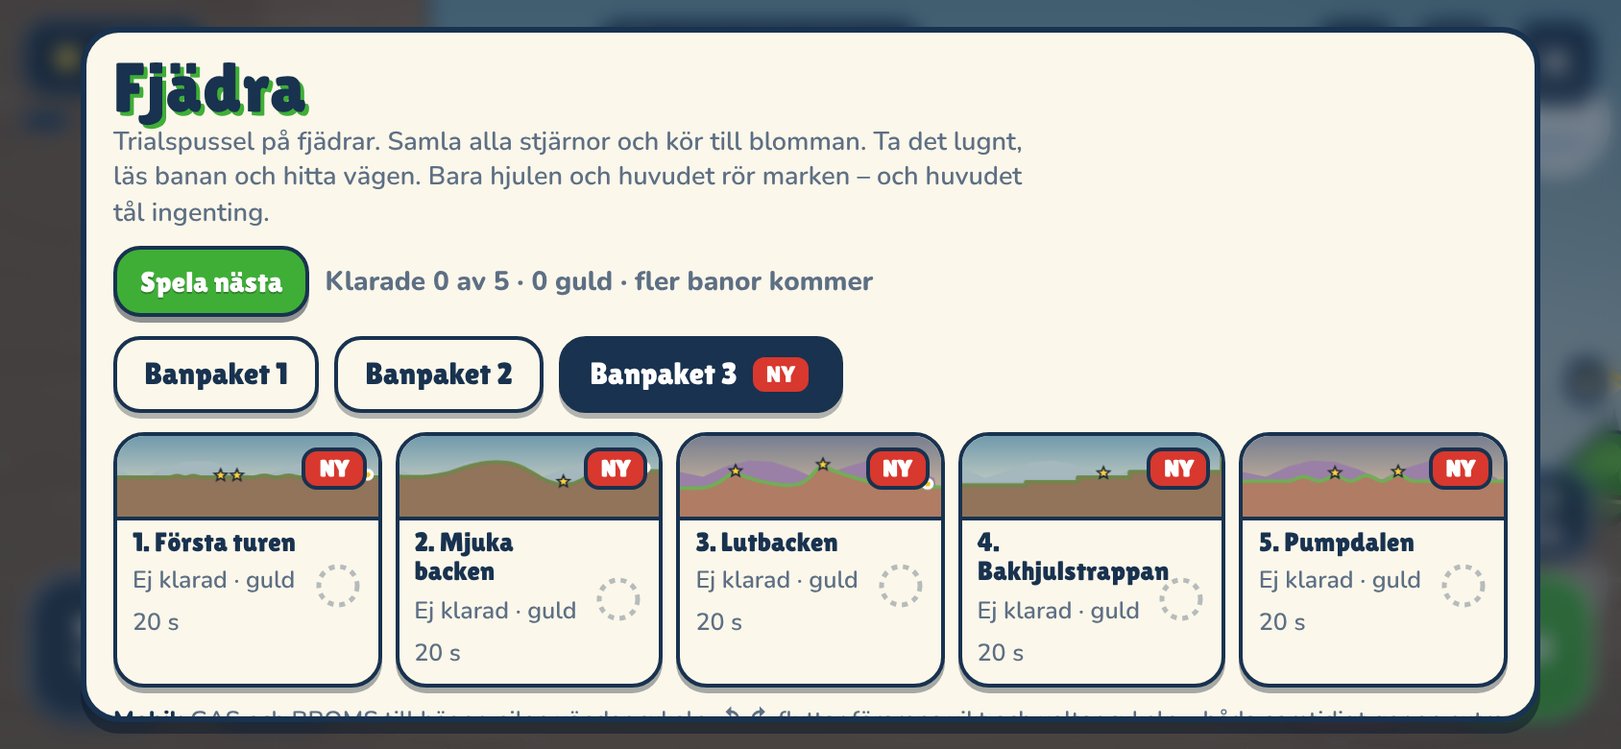
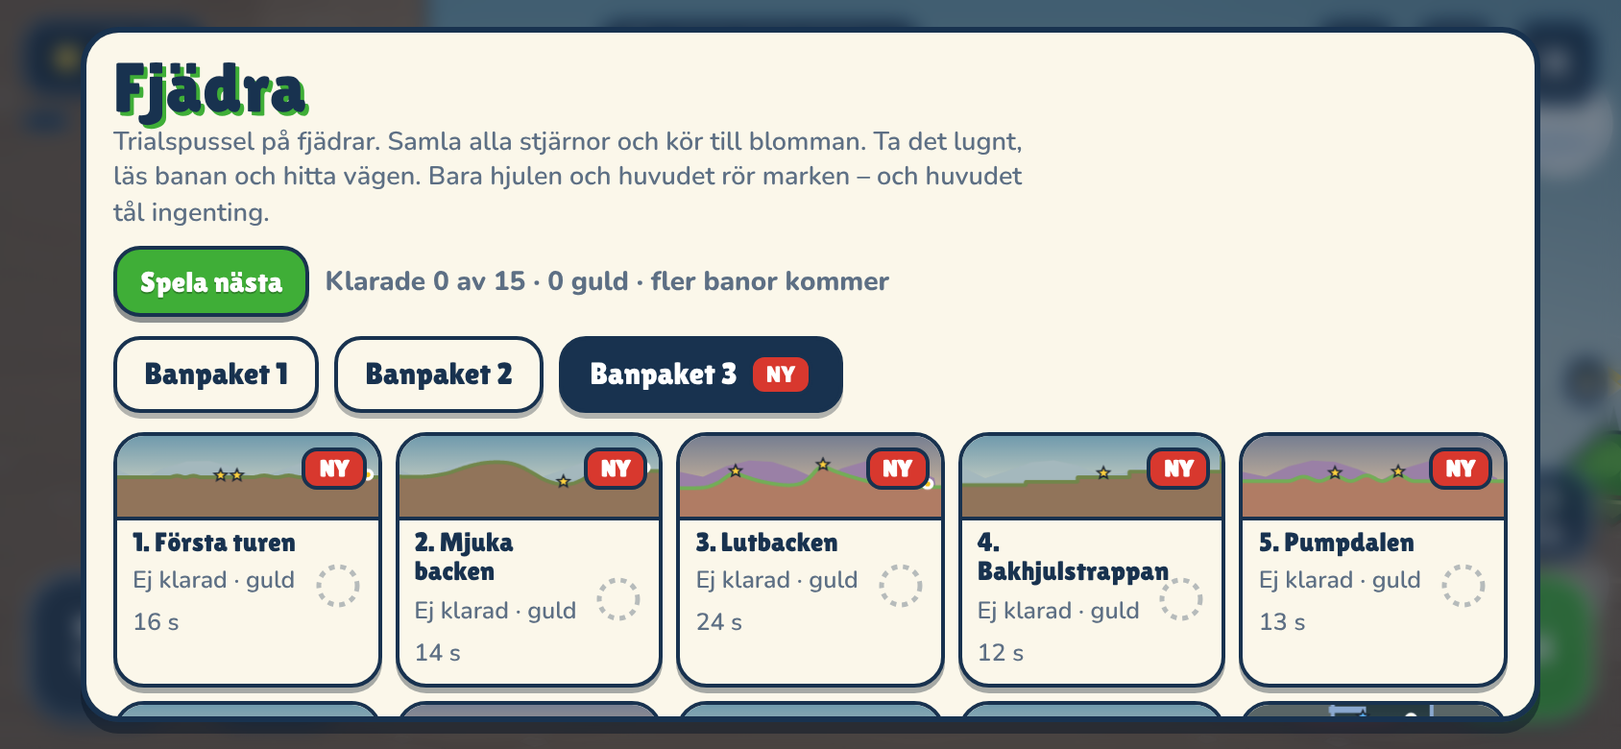
Banpaket 3: levels 6-15 (gap, halfpipe, loop, tunnel, chimney, turn, gaps, flow, ceiling, brake swing)
Adds a reusable bottom-open loop (loopParts/woodArc). Skorstenen uses
gravity stars since a turn-and-climb chimney is not possible in 2D with
the current hop/wheelie height. All 15 pack 3 levels are won by the test bot.

Claude-Session: https://claude.ai/code/session_01L7FhStvEFD35txFR7ov2Pk

diff --git a/game/index.html b/game/index.html
@@ -622,6 +622,7 @@ LV2.push(()=>({id:'fjadra-pack2-08', name:'Gruvans andra våning', theme:'cave',
 LV2.push(()=>({id:'fjadra-pack2-11', name:'Stenhyllan', theme:'sunset', hint:'Kör sakta mot kanten. BROMSA så fort framhjulet är ute över kanten (den gula zonen) och håll inne – bakhjulet hakar i kanten och du hänger. Ta stjärnan, släpp sen.',
   rings:[{pts:[[-14,TOP],[-14,4.5],[9.3,4.5],[9.55,4.62],[9.95,4.64],[10.05,4.55],[10.05,4.08],[8.5,3.98],[6.5,3.9],[5.2,3.6],[5,3.1],[5,2.3],[8,1.6],[11,0.75],[14,0.1],[15,0],[22,0],[29,4.5],[38,4.5],[38,TOP]]}],
   apples:[[4,5.25],[8.2,2.85],[25.5,2.95]], killers:[], flower:[34,4.5], start:[-10,4.5], marks:[[7.6,9.6]]}));
+var P13={cx:66,cy:6.5,R:4.6,kx:63.5,kr:3.5,ka:60};
 // ================= BANPAKET 3 (30 banor, lätt → svår) =================
 const LV3=[];
 // 01 Första turen — gas: platt start, mjuka gupp, stjärnor på marken
@@ -657,7 +658,88 @@ LV3.push(()=>{ const H=[1.0,1.15,1.3,1.45], W=7, X0=8;
     stuck:'Luta ↺ när du kör uppför, ↻ när det lutar nedåt. Gas får du använda om du vill.',
     rings:[{pts:[[-4,TOP],[-4,0],...sample(f,0,58,0.25),[58,TOP]]}],
     apples:[[X0+W*1.5,H[1]+0.75],[X0+W*3.5,H[3]+0.75]], killers:[], flower:[52,0], start:[2,0]}; });
-const MEDALS3={'fjadra-p3-01':[16,26],'fjadra-p3-02':[14,24],'fjadra-p3-03':[24,38],'fjadra-p3-04':[12,20],'fjadra-p3-05':[13,22]};
+// träplankor längs en cirkelbåge (loopar, rör): små fyrkanter så att ritningen följer bågen. Huvudet går igenom trä.
+function woodArc(cx,cy,r,a0,a1,th,n){ const out=[]; for(let i=0;i<n;i++){ const u0=(a0+(a1-a0)*i/n)*Math.PI/180, u1=(a0+(a1-a0)*(i+1)/n)*Math.PI/180;
+  const P=(u,rr)=>[+(cx+rr*Math.cos(u)).toFixed(3),+(cy+rr*Math.sin(u)).toFixed(3)];
+  out.push({pts:[P(u0,r),P(u1,r),P(u1,r+th),P(u0,r+th)],style:'wood'}); } return out; }
+// 06 Lilla gapet — hopp: ramp, ett gap med en stjärna i luften, landningsbacke
+LV3.push(()=>{ const s=cr([[-4,0],[10,0],[13,0.1],[15.5,0.5],[17.5,1.2],[19,1.75],[19.6,1.85],[20.4,1.4],[21.3,0.1],[22.2,-0.8],[23,-1.0],[23.8,-0.8],[24.7,0.2],[25.5,1.3],[26.1,1.8],[27.2,1.9],[30,1.45],[34,0.7],[38,0.15],[42,0],[54,0]],0.25);
+  return {id:'fjadra-p3-06', name:'Lilla gapet', theme:'meadow', hint:'Gasa mot rampen och hoppa över gapet. Stjärnan hänger mitt i luften.',
+    stuck:'Hamnade du i gropen? Tryck OMSTART och ta mer fart.',
+    rings:[{pts:[[-4,TOP],...s,[54,TOP]]}], apples:[[22.9,3.5]], killers:[], flower:[48,0], start:[2,0]}; });
+// 07 Halfpipe-gungan — halfpipe: gunga fram och tillbaka och flyg upp över kanterna
+LV3.push(()=>{ const L=[[-4,TOP],[-4,0],[4.6,0],[4.95,-0.12],...arc(10,0,5,180,270,24).slice(1),[14,-5],...arc(14,0,5,270,343,18).slice(1),[19.0,-1.2],[19.3,-0.25],[19.6,0],[24,0],
+      ...cr([[24,0],[27,-0.4],[31,-2.0],[35,-3.2],[38,-3.5],[48,-3.5]],0.3).slice(1),[48,TOP]];
+  return {id:'fjadra-p3-07', name:'Halfpipe-gungan', theme:'sunset', hint:'Släpp dig ner i röret och gunga upp på båda sidor. Stjärnorna hänger ovanför kanterna.',
+    stuck:'Gunga: gasa nerför, släpp upp mot kanten, vänd med pilknappen i luften eller på väggen.',
+    rings:[{pts:L}], apples:[[5.55,1.3],[5.55,2.6],[19.4,1.6],[20.6,2.8]], killers:[], flower:[44,-3.5], start:[1,0]}; });
+// 08 Första loopen — lång nedförsbacke för fart, ett hopp in i loopen, stjärnan högst upp
+LV3.push(()=>{ const lp=loopParts(54,6.5,4,51.5,3.5,60,0);
+  const s=cr([[-4,12],[3,12],[6,11.6],[12,8.5],[20,3.6],[27,0.6],[32,0],[lp.k0-2,0]],0.3);
+  return {id:'fjadra-p3-08', name:'Första loopen', theme:'meadow', hint:'Full gas nerför backen, ta hoppet och låt farten bära dig runt loopen.',
+    stuck:'För lite fart? Gasa hela vägen från toppen.',
+    rings:[{pts:[[-4,TOP],...s,...lp.ground,[90,0],[90,TOP]]}, ...lp.rings],
+    apples:[[54,9.6]], killers:[], flower:[84,0], start:[1,12]}; });
+// 09 Grytet — ner i ett hål, kort tunnel med lågt tak, stjärna i en nisch, upp igen
+LV3.push(()=>{ const F=-4.5, C=F+2.8;
+  const ground=[[-4,TOP],[-4,0],[10,0],...cr([[10,0],[11.5,-0.3],[13.5,-1.3],[16,-3.0],[18,-4.1],[20,F],[21.5,F]],0.25).slice(1),[41,F],...cr([[41,F],[44,-3.7],[48,-1.7],[51,-0.2],[53,0.4],[55,0.5]],0.3).slice(1),[65,0.5],[65,TOP]];
+  const roof={pts:[[21.2,0],[41.5,0],[41.6,-0.5],[40.6,C+0.15],[39.6,C],[34.4,C],[33.6,C+0.6],[33,-0.7],[27.6,-0.7],[27,C+0.6],[26.2,C],[22.6,C],[21.2,C+0.4],[20.5,-0.9],[20.6,-0.3]]};
+  return {id:'fjadra-p3-09', name:'Grytet', theme:'meadow', hint:'Ner i hålet och in i tunneln. Lågt i tak – ta det lugnt så huvudet inte slår i.',
+    stuck:'Stjärnan sitter i nischen i taket. Lyft framhjulet en aning under den.',
+    rings:[{pts:ground}, roof], apples:[[30.3,F+2.55]], killers:[], flower:[60,0.5], start:[2,0]}; });
+// 10 Skorstenen — smalt lodrätt schakt. Blå stjärna vänder tyngden: fall uppåt, kör på avsatsernas undersidor i sicksack, ut genom toppen
+LV3.push(()=>{ const W=6.4, rings=[];
+  const ledge=(left,y)=>{ const x0=left?0:2.4, x1=left?4.0:W; return {pts:[[x0,y],[x1,y],[x1+(left?0.25:0),y-0.25],[x1,y-0.55],[x0,y-0.55]].map(p=>[+p[0].toFixed(2),p[1]])}; };
+  for(let k=1;k<=4;k++) rings.push(ledge(k%2===1,3.2*k));
+  const top=16;
+  rings.unshift({pts:[[-8,TOP],[-8,top+4],[0,top+4],[0,0],[W,0],[W,13.3],[W+0.2,13.1],[24,13.1],[24,TOP]]});
+  rings.push({pts:[[-0.5,top],[W+1.2,top],[W+1.2,top+0.7],[-0.5,top+0.7]]});
+  return {id:'fjadra-p3-10', name:'Skorstenen', theme:'cave', hint:'Blå stjärna vänder tyngden – du faller uppåt genom skorstenen. Kör längs undersidorna, ut genom öppningen i toppen och ta den blå stjärnan där.',
+    stuck:'Kör till kanten av avsatsen så faller du upp till nästa. Vänd med pilknappen om du landar åt fel håll.',
+    rings, apples:[[3.0,0.75,'up'],[W-0.7,2*3.2-0.55-0.75],[0.7,3*3.2-0.55-0.75],[W+0.9,14.6,'down']], killers:[], flower:[19,13.1], start:[1.2,0]}; });
+// 11 Fram och tillbaka — ner för två trappsteg ut till väggen, vänd, och klättra tillbaka till blomman bakom starten
+LV3.push(()=>{ const bump=(x,c,h,w)=>Math.abs(x-c)<w? h*0.5*(1+Math.cos(Math.PI*(x-c)/w)) : 0;
+  const pts=[[-16,TOP],[-16,1.6],[11.85,1.6],[11.96,1.56],[12,1.48],[12,0.8],[29.85,0.8],[29.96,0.76],[30,0.68],[30,0],
+    ...sample(x=>bump(x,42,0.6,3)+bump(x,52,0.7,3)+bump(x,60,0.5,2.5),34,66,0.25),[72,0],[72,TOP]];
+  return {id:'fjadra-p3-11', name:'Fram och tillbaka', theme:'winter', hint:'Stjärnorna sitter vid väggen långt bort. Vänd där (pilknappen) och kör hem till blomman bakom starten.',
+    stuck:'På vägen hem: luta bakåt (↺) vid trappstegen så framhjulet kommer upp.',
+    rings:[{pts}], apples:[[71.2,0.75],[71.3,2.15]], killers:[], flower:[-12,1.6], start:[-6,1.6]}; });
+// 12 Vågor och gap — pumpa över vågorna, hoppa två gap via en svävande ö, sista rampen upp till blomman
+LV3.push(()=>{ const w=x=>(x>6&&x<27)? 0.45*(1-Math.cos(2*Math.PI*(x-6)/7)) : 0;
+  const ground=[[-4,TOP],[-4,0],...sample(w,0,30,0.25),...cr([[30,0],[32,0.1],[34,0.55],[35.2,0.95],[35.5,0.9]],0.25).slice(1),[35.6,0.4],[35.7,-4.5],[52.4,-4.5],[52.5,-0.3],[52.6,-0.05],[52.9,0.05],[58,0.05],
+    ...cr([[58,0.05],[60,0.4],[62.5,1.4],[64.5,2.4],[66.5,2.9],[68,3.0],[78,3.0]],0.3).slice(1),[78,TOP]];
+  const island={pts:[[39.6,0.25],[40,0.32],[45,0.32],[45.6,0.45],[46,0.7],[46.1,0.4],[45.6,-0.6],[44.5,-1.6],[43,-2.2],[41.6,-1.8],[40.4,-0.9],[39.7,-0.2]]};
+  return {id:'fjadra-p3-12', name:'Vågor och gap', theme:'sunset', hint:'Pumpa fart över vågorna och hoppa till ön, sen över det stora gapet. Landa och kör uppför till blomman.',
+    stuck:'Ner i gropen? Tryck OMSTART. Pumpa mer på vågorna för att hinna över.',
+    rings:[{pts:ground}, island], apples:[[37.6,2.0],[42.6,1.2],[49.3,2.6]], killers:[], flower:[73,3.0], start:[2,0]}; });
+// 13 Berg-och-dalbanan — flow: vågor nerför, en loop, ett hopp och ett rör på slutet
+LV3.push(()=>{ const lp=loopParts(P13.cx,P13.cy,P13.R,P13.kx,P13.kr,P13.ka,0); const E=lp.end;
+  const top=cr([[-4,19.5],[2,19.5],[5,19.1],[10,15.6],[14,13.8],[17,13.9],[20,12.8],[25,9.6],[29,8.2],[32,8.2],[36,6.4],[42,2.5],[47,0.4],[51,0],[lp.k0-2,0]],0.3);
+  const after=cr([[E,0],[E+8,0],[E+12,0.3],[E+15,1.2],[E+17,1.9],[E+17.6,2.0],[E+18.1,1.6],[E+18.3,-3],[E+25.4,-3],[E+25.5,1.4],[E+26,1.75],[E+27,1.7],[E+31,0.6],[E+35,0],[E+38,0],
+    [E+41,-1.2],[E+44,-2.6],[E+47,-3.0],[E+50,-2.6],[E+53,-1.2],[E+56,0],[E+66,0]],0.3);
+  return {id:'fjadra-p3-13', name:'Berg-och-dalbanan', theme:'meadow', hint:'Flow! Låt cykeln rulla genom vågorna, gasa in i loopen, hoppa gapet och susa genom röret.',
+    stuck:'Mer fart in i loopen: håll gasen nere genom vågorna.',
+    rings:[{pts:[[-4,TOP],...top,...lp.ground,...after.slice(1),[E+66,TOP]]}, ...lp.rings],
+    apples:[[14.5,14.5],[30.5,8.9],[P13.cx,P13.cy+P13.R-0.9],[E+21.8,3.7],[E+47,-2.25]], killers:[], flower:[E+61,0], start:[1,19.5]}; });
+// 14 Upp och ner — kvartsrör upp mot ett klippvalv, blå stjärna vänder tyngden, kör i taket, blå stjärna tillbaka
+LV3.push(()=>{ const qp=[[-4,TOP],[-4,0],[8,0],...arc(8,5,5,270,360,20).slice(1),[13,5.15],[13.25,5.3],[13.5,5.15],[13.5,0],[54,0],[54,TOP]];
+  const und=cr([[9,7.6],[14,7.5],[18,7.2],[23,6.6],[27,5.6],[30,5.3],[33,5.6],[37,6.6],[41,7.2],[45,7.5],[48,7.6]],0.3);
+  const roof={pts:[...und,[48.6,8.2],[48,9.6],[40,10.6],[28,10.9],[16,10.6],[9.4,9.6],[8.6,8.2]]};
+  return {id:'fjadra-p3-14', name:'Upp och ner', theme:'sunset', hint:'Full fart uppför kvartsröret. Den blå stjärnan vänder tyngden – kör i taket och ta den blå stjärnan i slutet för att komma ner.',
+    stuck:'Ta mer fart mot kvartsröret så du flyger upp till den blå stjärnan.',
+    rings:[{pts:qp}, roof], apples:[[12.6,6.4,'up'],[30,4.55],[44.5,6.85,'down']], killers:[], flower:[50,0], start:[1,0]}; });
+// 15 Bromssvingen — kör upp för en hög, lodrät kant och svinga upp cykeln över krönet
+LV3.push(()=>{ const H=5.0, s=cr([[-4,0],[14,0],[17,0.25],[19.5,1.0],[21.3,2.2],[22.5,3.5],[23.1,4.4],[23.3,H-0.25]],0.25);
+  return {id:'fjadra-p3-15', name:'Bromssvingen', theme:'winter', hint:'Fart mot väggen. Uppe vid krönet: BROMSA så framhjulet greppar kanten och luta FRAMÅT (↻) – cykeln svingar upp.',
+    stuck:'Når du inte upp? Längre ansats och full gas hela vägen upp för väggen.',
+    rings:[{pts:[[-4,TOP],...s,[23.32,H-0.08],[23.42,H],[23.6,H+0.05],[30,H+0.05],[30.15,H-0.05],[30.2,3.2],[48,3.2],[48,TOP]]}],
+    apples:[[27,H+0.8]], killers:[], flower:[44,3.2], start:[1,0]}; });
+// loop med öppning i botten: en brant ramp skjuter in cykeln genom öppningen, efter varvet faller den ut samma väg och landar i backen bakom rampen
+function loopParts(cx,cy,R,kx,kr,ka,fy){ const r=ka*Math.PI/180, k0=kx-kr*Math.sin(r), kh=kr*(1-Math.cos(r)), L=kh/Math.tan(32*Math.PI/180);
+  const ground=[...arc(k0,fy+kr,kr,-90,-90+ka,14),...cr([[kx+0.2,fy+kh-0.02],[kx+0.5,fy+kh-0.12],[kx+0.5+L,fy+0.05],[kx+1.5+L,fy]],0.25)];
+  return {k0,end:kx+1.5+L,ground,rings:woodArc(cx,cy,R,-50,230,0.35,40)}; }
+const MEDALS3={'fjadra-p3-01':[16,26],'fjadra-p3-02':[14,24],'fjadra-p3-03':[24,38],'fjadra-p3-04':[12,20],'fjadra-p3-05':[13,22],
+  'fjadra-p3-06':[11,18],'fjadra-p3-07':[14,24],'fjadra-p3-08':[16,26],'fjadra-p3-09':[11,18],'fjadra-p3-10':[14,22],'fjadra-p3-11':[30,45],'fjadra-p3-12':[15,24],'fjadra-p3-13':[30,45],'fjadra-p3-14':[14,24],'fjadra-p3-15':[11,18]};
 const MEDALS={'Första stegen':[10,16],'Lådorna':[16,26],'Vändplatsen':[12,20],'Trappan':[11,17],'Hakarna':[16,26],'Svävande öar':[16,25],'Bron':[14,22],'Grottan':[10,16],'Pelarna':[14,24],'Skålen':[25,45],'Hinderbanan':[13,20],'Vinterberget':[12,19],'Klippan':[16,26],'Upp och ner':[14,24],'Hänget':[16,28],'Svävaren':[14,24],'Balkarna':[14,24],'Pumpbanan':[14,22],'Studsen':[12,20],'Schaktet':[22,34],'Klätterväggen':[18,30],'Finalen':[28,45],'Spegeln':[16,26],'Trapphoppet':[16,26],'Flowbanan':[14,22],'Stockarna':[9,15],'Volten':[9,15]};
 const MEDALS2={'fjadra-pack2-01':[12,20],'fjadra-pack2-08':[26,40],'fjadra-pack2-11':[14,24]};
 const slug=n=>n.toLowerCase().replace(/å/g,'a').replace(/ä/g,'a').replace(/ö/g,'o').replace(/[^a-z0-9]+/g,'-').replace(/^-|-$/g,'');
@@ -686,7 +768,7 @@ const cv=document.getElementById('cv'), ctx=cv.getContext('2d');
 const $=id=>document.getElementById(id);
 let W=0,Hh=0,DPR=1,SC=40,SC0=40,zoom=0.86;
 let li=0, lvl=null, bike=null, got=[], state='menu', T=0, acc=0, endTimer=0, flagWarn=0, parts=[], rag=null, pops=[], shake=0, bloom=0, rec=[], recT=0, ghost=null, BASE_A=1;
-const NEWLV=new Set(['fjadra-pack2-01','fjadra-pack2-08','fjadra-pack2-11','fjadra-p3-01','fjadra-p3-02','fjadra-p3-03','fjadra-p3-04','fjadra-p3-05']); let curPack=1;
+const NEWLV=new Set(['fjadra-pack2-01','fjadra-pack2-08','fjadra-pack2-11','fjadra-p3-01','fjadra-p3-02','fjadra-p3-03','fjadra-p3-04','fjadra-p3-05','fjadra-p3-06','fjadra-p3-07','fjadra-p3-08','fjadra-p3-09','fjadra-p3-10','fjadra-p3-11','fjadra-p3-12','fjadra-p3-13','fjadra-p3-14','fjadra-p3-15']); let curPack=1;
 let STYLE='cartoon'; try{ STYLE=localStorage.getItem('fjadra.style')==='neon'?'neon':'cartoon'; }catch(e){}
 let stuckT=0, stuckCD=0;
 // ghosts are stored per stable level id; old name-keyed ghosts are moved over the first time

diff --git a/src/levels.js b/src/levels.js
@@ -171,6 +171,7 @@ LV2.push(()=>({id:'fjadra-pack2-08', name:'Gruvans andra våning', theme:'cave',
 LV2.push(()=>({id:'fjadra-pack2-11', name:'Stenhyllan', theme:'sunset', hint:'Kör sakta mot kanten. BROMSA så fort framhjulet är ute över kanten (den gula zonen) och håll inne – bakhjulet hakar i kanten och du hänger. Ta stjärnan, släpp sen.',
   rings:[{pts:[[-14,TOP],[-14,4.5],[9.3,4.5],[9.55,4.62],[9.95,4.64],[10.05,4.55],[10.05,4.08],[8.5,3.98],[6.5,3.9],[5.2,3.6],[5,3.1],[5,2.3],[8,1.6],[11,0.75],[14,0.1],[15,0],[22,0],[29,4.5],[38,4.5],[38,TOP]]}],
   apples:[[4,5.25],[8.2,2.85],[25.5,2.95]], killers:[], flower:[34,4.5], start:[-10,4.5], marks:[[7.6,9.6]]}));
+var P13={cx:66,cy:6.5,R:4.6,kx:63.5,kr:3.5,ka:60};
 // ================= BANPAKET 3 (30 banor, lätt → svår) =================
 const LV3=[];
 // 01 Första turen — gas: platt start, mjuka gupp, stjärnor på marken
@@ -206,7 +207,88 @@ LV3.push(()=>{ const H=[1.0,1.15,1.3,1.45], W=7, X0=8;
     stuck:'Luta ↺ när du kör uppför, ↻ när det lutar nedåt. Gas får du använda om du vill.',
     rings:[{pts:[[-4,TOP],[-4,0],...sample(f,0,58,0.25),[58,TOP]]}],
     apples:[[X0+W*1.5,H[1]+0.75],[X0+W*3.5,H[3]+0.75]], killers:[], flower:[52,0], start:[2,0]}; });
-const MEDALS3={'fjadra-p3-01':[16,26],'fjadra-p3-02':[14,24],'fjadra-p3-03':[24,38],'fjadra-p3-04':[12,20],'fjadra-p3-05':[13,22]};
+// träplankor längs en cirkelbåge (loopar, rör): små fyrkanter så att ritningen följer bågen. Huvudet går igenom trä.
+function woodArc(cx,cy,r,a0,a1,th,n){ const out=[]; for(let i=0;i<n;i++){ const u0=(a0+(a1-a0)*i/n)*Math.PI/180, u1=(a0+(a1-a0)*(i+1)/n)*Math.PI/180;
+  const P=(u,rr)=>[+(cx+rr*Math.cos(u)).toFixed(3),+(cy+rr*Math.sin(u)).toFixed(3)];
+  out.push({pts:[P(u0,r),P(u1,r),P(u1,r+th),P(u0,r+th)],style:'wood'}); } return out; }
+// 06 Lilla gapet — hopp: ramp, ett gap med en stjärna i luften, landningsbacke
+LV3.push(()=>{ const s=cr([[-4,0],[10,0],[13,0.1],[15.5,0.5],[17.5,1.2],[19,1.75],[19.6,1.85],[20.4,1.4],[21.3,0.1],[22.2,-0.8],[23,-1.0],[23.8,-0.8],[24.7,0.2],[25.5,1.3],[26.1,1.8],[27.2,1.9],[30,1.45],[34,0.7],[38,0.15],[42,0],[54,0]],0.25);
+  return {id:'fjadra-p3-06', name:'Lilla gapet', theme:'meadow', hint:'Gasa mot rampen och hoppa över gapet. Stjärnan hänger mitt i luften.',
+    stuck:'Hamnade du i gropen? Tryck OMSTART och ta mer fart.',
+    rings:[{pts:[[-4,TOP],...s,[54,TOP]]}], apples:[[22.9,3.5]], killers:[], flower:[48,0], start:[2,0]}; });
+// 07 Halfpipe-gungan — halfpipe: gunga fram och tillbaka och flyg upp över kanterna
+LV3.push(()=>{ const L=[[-4,TOP],[-4,0],[4.6,0],[4.95,-0.12],...arc(10,0,5,180,270,24).slice(1),[14,-5],...arc(14,0,5,270,343,18).slice(1),[19.0,-1.2],[19.3,-0.25],[19.6,0],[24,0],
+      ...cr([[24,0],[27,-0.4],[31,-2.0],[35,-3.2],[38,-3.5],[48,-3.5]],0.3).slice(1),[48,TOP]];
+  return {id:'fjadra-p3-07', name:'Halfpipe-gungan', theme:'sunset', hint:'Släpp dig ner i röret och gunga upp på båda sidor. Stjärnorna hänger ovanför kanterna.',
+    stuck:'Gunga: gasa nerför, släpp upp mot kanten, vänd med pilknappen i luften eller på väggen.',
+    rings:[{pts:L}], apples:[[5.55,1.3],[5.55,2.6],[19.4,1.6],[20.6,2.8]], killers:[], flower:[44,-3.5], start:[1,0]}; });
+// 08 Första loopen — lång nedförsbacke för fart, ett hopp in i loopen, stjärnan högst upp
+LV3.push(()=>{ const lp=loopParts(54,6.5,4,51.5,3.5,60,0);
+  const s=cr([[-4,12],[3,12],[6,11.6],[12,8.5],[20,3.6],[27,0.6],[32,0],[lp.k0-2,0]],0.3);
+  return {id:'fjadra-p3-08', name:'Första loopen', theme:'meadow', hint:'Full gas nerför backen, ta hoppet och låt farten bära dig runt loopen.',
+    stuck:'För lite fart? Gasa hela vägen från toppen.',
+    rings:[{pts:[[-4,TOP],...s,...lp.ground,[90,0],[90,TOP]]}, ...lp.rings],
+    apples:[[54,9.6]], killers:[], flower:[84,0], start:[1,12]}; });
+// 09 Grytet — ner i ett hål, kort tunnel med lågt tak, stjärna i en nisch, upp igen
+LV3.push(()=>{ const F=-4.5, C=F+2.8;
+  const ground=[[-4,TOP],[-4,0],[10,0],...cr([[10,0],[11.5,-0.3],[13.5,-1.3],[16,-3.0],[18,-4.1],[20,F],[21.5,F]],0.25).slice(1),[41,F],...cr([[41,F],[44,-3.7],[48,-1.7],[51,-0.2],[53,0.4],[55,0.5]],0.3).slice(1),[65,0.5],[65,TOP]];
+  const roof={pts:[[21.2,0],[41.5,0],[41.6,-0.5],[40.6,C+0.15],[39.6,C],[34.4,C],[33.6,C+0.6],[33,-0.7],[27.6,-0.7],[27,C+0.6],[26.2,C],[22.6,C],[21.2,C+0.4],[20.5,-0.9],[20.6,-0.3]]};
+  return {id:'fjadra-p3-09', name:'Grytet', theme:'meadow', hint:'Ner i hålet och in i tunneln. Lågt i tak – ta det lugnt så huvudet inte slår i.',
+    stuck:'Stjärnan sitter i nischen i taket. Lyft framhjulet en aning under den.',
+    rings:[{pts:ground}, roof], apples:[[30.3,F+2.55]], killers:[], flower:[60,0.5], start:[2,0]}; });
+// 10 Skorstenen — smalt lodrätt schakt. Blå stjärna vänder tyngden: fall uppåt, kör på avsatsernas undersidor i sicksack, ut genom toppen
+LV3.push(()=>{ const W=6.4, rings=[];
+  const ledge=(left,y)=>{ const x0=left?0:2.4, x1=left?4.0:W; return {pts:[[x0,y],[x1,y],[x1+(left?0.25:0),y-0.25],[x1,y-0.55],[x0,y-0.55]].map(p=>[+p[0].toFixed(2),p[1]])}; };
+  for(let k=1;k<=4;k++) rings.push(ledge(k%2===1,3.2*k));
+  const top=16;
+  rings.unshift({pts:[[-8,TOP],[-8,top+4],[0,top+4],[0,0],[W,0],[W,13.3],[W+0.2,13.1],[24,13.1],[24,TOP]]});
+  rings.push({pts:[[-0.5,top],[W+1.2,top],[W+1.2,top+0.7],[-0.5,top+0.7]]});
+  return {id:'fjadra-p3-10', name:'Skorstenen', theme:'cave', hint:'Blå stjärna vänder tyngden – du faller uppåt genom skorstenen. Kör längs undersidorna, ut genom öppningen i toppen och ta den blå stjärnan där.',
+    stuck:'Kör till kanten av avsatsen så faller du upp till nästa. Vänd med pilknappen om du landar åt fel håll.',
+    rings, apples:[[3.0,0.75,'up'],[W-0.7,2*3.2-0.55-0.75],[0.7,3*3.2-0.55-0.75],[W+0.9,14.6,'down']], killers:[], flower:[19,13.1], start:[1.2,0]}; });
+// 11 Fram och tillbaka — ner för två trappsteg ut till väggen, vänd, och klättra tillbaka till blomman bakom starten
+LV3.push(()=>{ const bump=(x,c,h,w)=>Math.abs(x-c)<w? h*0.5*(1+Math.cos(Math.PI*(x-c)/w)) : 0;
+  const pts=[[-16,TOP],[-16,1.6],[11.85,1.6],[11.96,1.56],[12,1.48],[12,0.8],[29.85,0.8],[29.96,0.76],[30,0.68],[30,0],
+    ...sample(x=>bump(x,42,0.6,3)+bump(x,52,0.7,3)+bump(x,60,0.5,2.5),34,66,0.25),[72,0],[72,TOP]];
+  return {id:'fjadra-p3-11', name:'Fram och tillbaka', theme:'winter', hint:'Stjärnorna sitter vid väggen långt bort. Vänd där (pilknappen) och kör hem till blomman bakom starten.',
+    stuck:'På vägen hem: luta bakåt (↺) vid trappstegen så framhjulet kommer upp.',
+    rings:[{pts}], apples:[[71.2,0.75],[71.3,2.15]], killers:[], flower:[-12,1.6], start:[-6,1.6]}; });
+// 12 Vågor och gap — pumpa över vågorna, hoppa två gap via en svävande ö, sista rampen upp till blomman
+LV3.push(()=>{ const w=x=>(x>6&&x<27)? 0.45*(1-Math.cos(2*Math.PI*(x-6)/7)) : 0;
+  const ground=[[-4,TOP],[-4,0],...sample(w,0,30,0.25),...cr([[30,0],[32,0.1],[34,0.55],[35.2,0.95],[35.5,0.9]],0.25).slice(1),[35.6,0.4],[35.7,-4.5],[52.4,-4.5],[52.5,-0.3],[52.6,-0.05],[52.9,0.05],[58,0.05],
+    ...cr([[58,0.05],[60,0.4],[62.5,1.4],[64.5,2.4],[66.5,2.9],[68,3.0],[78,3.0]],0.3).slice(1),[78,TOP]];
+  const island={pts:[[39.6,0.25],[40,0.32],[45,0.32],[45.6,0.45],[46,0.7],[46.1,0.4],[45.6,-0.6],[44.5,-1.6],[43,-2.2],[41.6,-1.8],[40.4,-0.9],[39.7,-0.2]]};
+  return {id:'fjadra-p3-12', name:'Vågor och gap', theme:'sunset', hint:'Pumpa fart över vågorna och hoppa till ön, sen över det stora gapet. Landa och kör uppför till blomman.',
+    stuck:'Ner i gropen? Tryck OMSTART. Pumpa mer på vågorna för att hinna över.',
+    rings:[{pts:ground}, island], apples:[[37.6,2.0],[42.6,1.2],[49.3,2.6]], killers:[], flower:[73,3.0], start:[2,0]}; });
+// 13 Berg-och-dalbanan — flow: vågor nerför, en loop, ett hopp och ett rör på slutet
+LV3.push(()=>{ const lp=loopParts(P13.cx,P13.cy,P13.R,P13.kx,P13.kr,P13.ka,0); const E=lp.end;
+  const top=cr([[-4,19.5],[2,19.5],[5,19.1],[10,15.6],[14,13.8],[17,13.9],[20,12.8],[25,9.6],[29,8.2],[32,8.2],[36,6.4],[42,2.5],[47,0.4],[51,0],[lp.k0-2,0]],0.3);
+  const after=cr([[E,0],[E+8,0],[E+12,0.3],[E+15,1.2],[E+17,1.9],[E+17.6,2.0],[E+18.1,1.6],[E+18.3,-3],[E+25.4,-3],[E+25.5,1.4],[E+26,1.75],[E+27,1.7],[E+31,0.6],[E+35,0],[E+38,0],
+    [E+41,-1.2],[E+44,-2.6],[E+47,-3.0],[E+50,-2.6],[E+53,-1.2],[E+56,0],[E+66,0]],0.3);
+  return {id:'fjadra-p3-13', name:'Berg-och-dalbanan', theme:'meadow', hint:'Flow! Låt cykeln rulla genom vågorna, gasa in i loopen, hoppa gapet och susa genom röret.',
+    stuck:'Mer fart in i loopen: håll gasen nere genom vågorna.',
+    rings:[{pts:[[-4,TOP],...top,...lp.ground,...after.slice(1),[E+66,TOP]]}, ...lp.rings],
+    apples:[[14.5,14.5],[30.5,8.9],[P13.cx,P13.cy+P13.R-0.9],[E+21.8,3.7],[E+47,-2.25]], killers:[], flower:[E+61,0], start:[1,19.5]}; });
+// 14 Upp och ner — kvartsrör upp mot ett klippvalv, blå stjärna vänder tyngden, kör i taket, blå stjärna tillbaka
+LV3.push(()=>{ const qp=[[-4,TOP],[-4,0],[8,0],...arc(8,5,5,270,360,20).slice(1),[13,5.15],[13.25,5.3],[13.5,5.15],[13.5,0],[54,0],[54,TOP]];
+  const und=cr([[9,7.6],[14,7.5],[18,7.2],[23,6.6],[27,5.6],[30,5.3],[33,5.6],[37,6.6],[41,7.2],[45,7.5],[48,7.6]],0.3);
+  const roof={pts:[...und,[48.6,8.2],[48,9.6],[40,10.6],[28,10.9],[16,10.6],[9.4,9.6],[8.6,8.2]]};
+  return {id:'fjadra-p3-14', name:'Upp och ner', theme:'sunset', hint:'Full fart uppför kvartsröret. Den blå stjärnan vänder tyngden – kör i taket och ta den blå stjärnan i slutet för att komma ner.',
+    stuck:'Ta mer fart mot kvartsröret så du flyger upp till den blå stjärnan.',
+    rings:[{pts:qp}, roof], apples:[[12.6,6.4,'up'],[30,4.55],[44.5,6.85,'down']], killers:[], flower:[50,0], start:[1,0]}; });
+// 15 Bromssvingen — kör upp för en hög, lodrät kant och svinga upp cykeln över krönet
+LV3.push(()=>{ const H=5.0, s=cr([[-4,0],[14,0],[17,0.25],[19.5,1.0],[21.3,2.2],[22.5,3.5],[23.1,4.4],[23.3,H-0.25]],0.25);
+  return {id:'fjadra-p3-15', name:'Bromssvingen', theme:'winter', hint:'Fart mot väggen. Uppe vid krönet: BROMSA så framhjulet greppar kanten och luta FRAMÅT (↻) – cykeln svingar upp.',
+    stuck:'Når du inte upp? Längre ansats och full gas hela vägen upp för väggen.',
+    rings:[{pts:[[-4,TOP],...s,[23.32,H-0.08],[23.42,H],[23.6,H+0.05],[30,H+0.05],[30.15,H-0.05],[30.2,3.2],[48,3.2],[48,TOP]]}],
+    apples:[[27,H+0.8]], killers:[], flower:[44,3.2], start:[1,0]}; });
+// loop med öppning i botten: en brant ramp skjuter in cykeln genom öppningen, efter varvet faller den ut samma väg och landar i backen bakom rampen
+function loopParts(cx,cy,R,kx,kr,ka,fy){ const r=ka*Math.PI/180, k0=kx-kr*Math.sin(r), kh=kr*(1-Math.cos(r)), L=kh/Math.tan(32*Math.PI/180);
+  const ground=[...arc(k0,fy+kr,kr,-90,-90+ka,14),...cr([[kx+0.2,fy+kh-0.02],[kx+0.5,fy+kh-0.12],[kx+0.5+L,fy+0.05],[kx+1.5+L,fy]],0.25)];
+  return {k0,end:kx+1.5+L,ground,rings:woodArc(cx,cy,R,-50,230,0.35,40)}; }
+const MEDALS3={'fjadra-p3-01':[16,26],'fjadra-p3-02':[14,24],'fjadra-p3-03':[24,38],'fjadra-p3-04':[12,20],'fjadra-p3-05':[13,22],
+  'fjadra-p3-06':[11,18],'fjadra-p3-07':[14,24],'fjadra-p3-08':[16,26],'fjadra-p3-09':[11,18],'fjadra-p3-10':[14,22],'fjadra-p3-11':[30,45],'fjadra-p3-12':[15,24],'fjadra-p3-13':[30,45],'fjadra-p3-14':[14,24],'fjadra-p3-15':[11,18]};
 const MEDALS={'Första stegen':[10,16],'Lådorna':[16,26],'Vändplatsen':[12,20],'Trappan':[11,17],'Hakarna':[16,26],'Svävande öar':[16,25],'Bron':[14,22],'Grottan':[10,16],'Pelarna':[14,24],'Skålen':[25,45],'Hinderbanan':[13,20],'Vinterberget':[12,19],'Klippan':[16,26],'Upp och ner':[14,24],'Hänget':[16,28],'Svävaren':[14,24],'Balkarna':[14,24],'Pumpbanan':[14,22],'Studsen':[12,20],'Schaktet':[22,34],'Klätterväggen':[18,30],'Finalen':[28,45],'Spegeln':[16,26],'Trapphoppet':[16,26],'Flowbanan':[14,22],'Stockarna':[9,15],'Volten':[9,15]};
 const MEDALS2={'fjadra-pack2-01':[12,20],'fjadra-pack2-08':[26,40],'fjadra-pack2-11':[14,24]};
 const slug=n=>n.toLowerCase().replace(/å/g,'a').replace(/ä/g,'a').replace(/ö/g,'o').replace(/[^a-z0-9]+/g,'-').replace(/^-|-$/g,'');

diff --git a/src/logic.js b/src/logic.js
@@ -4,7 +4,7 @@ const cv=document.getElementById('cv'), ctx=cv.getContext('2d');
 const $=id=>document.getElementById(id);
 let W=0,Hh=0,DPR=1,SC=40,SC0=40,zoom=0.86;
 let li=0, lvl=null, bike=null, got=[], state='menu', T=0, acc=0, endTimer=0, flagWarn=0, parts=[], rag=null, pops=[], shake=0, bloom=0, rec=[], recT=0, ghost=null, BASE_A=1;
-const NEWLV=new Set(['fjadra-pack2-01','fjadra-pack2-08','fjadra-pack2-11','fjadra-p3-01','fjadra-p3-02','fjadra-p3-03','fjadra-p3-04','fjadra-p3-05']); let curPack=1;
+const NEWLV=new Set(['fjadra-pack2-01','fjadra-pack2-08','fjadra-pack2-11','fjadra-p3-01','fjadra-p3-02','fjadra-p3-03','fjadra-p3-04','fjadra-p3-05','fjadra-p3-06','fjadra-p3-07','fjadra-p3-08','fjadra-p3-09','fjadra-p3-10','fjadra-p3-11','fjadra-p3-12','fjadra-p3-13','fjadra-p3-14','fjadra-p3-15']); let curPack=1;
 let STYLE='cartoon'; try{ STYLE=localStorage.getItem('fjadra.style')==='neon'?'neon':'cartoon'; }catch(e){}
 let stuckT=0, stuckCD=0;
 // ghosts are stored per stable level id; old name-keyed ghosts are moved over the first time

diff --git a/docs/fjadra-LEVELS.md b/docs/fjadra-LEVELS.md
@@ -73,6 +73,20 @@ Index fortsätter efter paket 2. Varje bana lär ut en teknik. Kolumnen *Bara ga
 | 32 | fjadra-p3-03 | Lutbacken (luta fram) | sunset | 2 | 24/38 | ✅ 17,5 s | kraschar |
 | 33 | fjadra-p3-04 | Bakhjulstrappan (wheelie) | meadow | 2 | 12/20 | ✅ 7,9 s | fastnar/kraschar |
 | 34 | fjadra-p3-05 | Pumpdalen (pumpa) | sunset | 2 | 13/22 | ✅ 8,3 s | kraschar |
+| 35 | fjadra-p3-06 | Lilla gapet (hopp) | meadow | 1 | 11/18 | ✅ 7,8 s | klarar |
+| 36 | fjadra-p3-07 | Halfpipe-gungan (halfpipe) | sunset | 4 | 14/24 | ✅ 7,8 s | kraschar |
+| 37 | fjadra-p3-08 | Första loopen (loop) | meadow | 1 | 16/26 | ✅ 35,4 s | klarar 10,5 s |
+| 38 | fjadra-p3-09 | Grytet (tunnel) | meadow | 1 | 11/18 | ✅ 7,2 s | missar stjärnan |
+| 39 | fjadra-p3-10 | Skorstenen (tyngdkraft, schakt) | cave | 2 + 2 blå | 14/22 | ✅ 9,1 s | – |
+| 40 | fjadra-p3-11 | Fram och tillbaka (vändning) | winter | 2 | 30/45 | ✅ 23,3 s | kraschar |
+| 41 | fjadra-p3-12 | Vågor och gap (pump + hopp) | sunset | 3 | 15/24 | ✅ 10,7 s | kraschar |
+| 42 | fjadra-p3-13 | Berg-och-dalbanan (flow) | meadow | 5 | 30/45 | ✅ 31,8 s | kraschar vid hoppet |
+| 43 | fjadra-p3-14 | Upp och ner (tyngdkraft, tak) | sunset | 1 + 2 blå | 14/24 | ✅ 9,7 s | kraschar |
+| 44 | fjadra-p3-15 | Bromssvingen (hög kant) | winter | 1 | 11/18 | ✅ 7,0 s | kraschar |
+
+**Loopar** (`loopParts` i `levels.js`): en hel loop i 2D måste korsa sin egen väg i luften. Loopen är träplankor (`woodArc`) med en öppning i botten (230°–310°). En brant rund ramp (60°) skjuter in cykeln genom öppningen; efter varvet faller den ut samma väg och landar i en 32°-backe bakom rampen. Kräver ca 16 m/s vid rampen. Rampvinkel 60° är stabil; 55° och 70° fungerar inte.
+
+**Skorstenen** byggdes först som sicksack-balkar med bunny hop, sedan som träklossar med wheelie-kanter. Båda går inte i 2D med den här fysiken: för att vända och klättra samtidigt måste cykeln korsa sin egen väg, och ett hopp eller en wheelie ger bara 0,6–1 m. Därför används blå stjärnor: man faller uppåt genom schaktet.
 
 Lärdom från bana 2: broms under `PIN_V` (3,8 m/s) låser hjulet mot marken. Tvärbroms utan att luta bakåt i en brant nedförsbacke slår runt cykeln framåt, och broms när framhjulet landar ger en Elma-studs. Håll nedförsbackar i nybörjarbanor under ~30° med breda krön.
 
